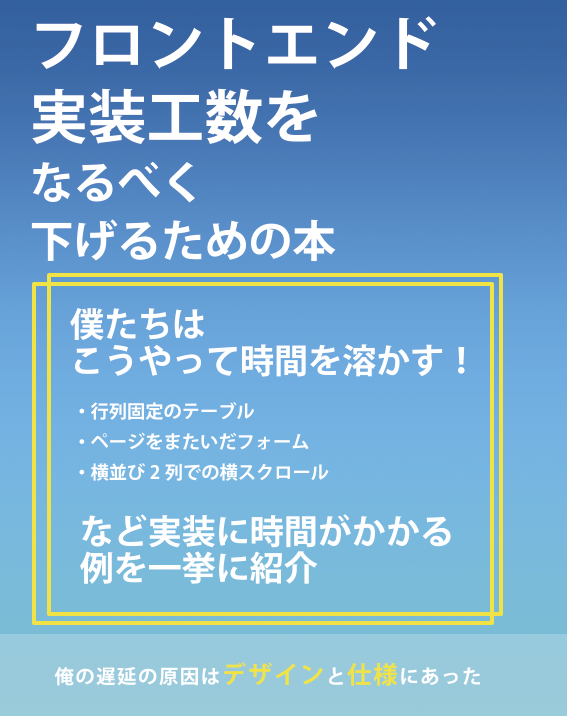
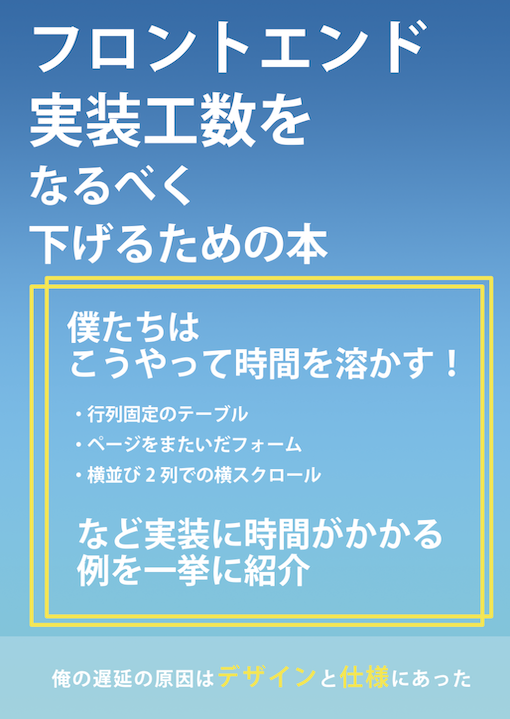
画像サイズ調整 + 修正ページ作成 + SP対応 (#3)
* rm: unused file

* fix: img

* update: revice

* update: sp mode

* update: all sp

* update: readme

Changed region(s): [[0.0294, 0.0, 0.9706, 0.8911], [0.1471, 0.5531, 0.6176, 0.676], [0.0882, 0.9218, 0.9118, 0.9832]]

diff --git a/src/pages/index.js b/src/pages/index.js
@@ -12,7 +12,7 @@ const IndexPage = props => {
     <Layout>
       <Section>
         <SEO title="Home" />
-        <Title>技術書典7で頒布しました！</Title>
+        <Title>技術書典7で頒布中</Title>
         <Books>
           <BookCover>
             <Image filename="kosubook" />
@@ -28,6 +28,10 @@ const IndexPage = props => {
                 こちら
               </NormalLink>
             </Text>
+            <Text>
+              修正は
+              <StyledLink to="./revice/kosubook">こちら</StyledLink>
+            </Text>
           </BookCover>
           <BookCover>
             <Image filename="modalbook" />
@@ -42,6 +46,10 @@ const IndexPage = props => {
               <NormalLink href="https://pinecan.booth.pm/items/1560348">
                 こちら
               </NormalLink>
+            </Text>
+            <Text>
+              修正は
+              <StyledLink to="./revice/modalbook">こちら</StyledLink>
             </Text>
           </BookCover>
         </Books>
@@ -72,18 +80,27 @@ const Title = styled.h1`
   color: #555555;
   text-align: center;
   font-size: 3.6rem;
-  margin-bottom: 1.2rem;
+  margin-bottom: 1.6rem;
+  @media (max-width: 768px) {
+    font-size: 2.4rem;
+  }
 `
 
 const Books = styled.div`
   width: 100%;
   display: flex;
   justify-content: space-between;
+  @media (max-width: 768px) {
+    flex-direction: column;
+  }
 `
 
 const BookCover = styled.div`
   width: 40%;
-  /* height: 425px; */
+  @media (max-width: 768px) {
+    width: 100%;
+    margin-bottom: 3.2rem;
+  }
 `
 
 const Text = styled.p`
@@ -92,6 +109,10 @@ const Text = styled.p`
 `
 
 const NormalLink = styled.a`
+  color: #2da4d5;
+`
+
+const StyledLink = styled(Link)`
   color: #2da4d5;
 `
 

diff --git a/src/pages/revice/kosubook.js b/src/pages/revice/kosubook.js
@@ -1,0 +1,42 @@
+import React from "react"
+import { Link } from "gatsby"
+import styled from "styled-components"
+import Layout from "../../components/layout"
+import SEO from "../../components/seo"
+
+export default () => {
+  return (
+    <Layout>
+      <Section>
+        <SEO title="revice" />
+        <Title>
+          フロントエンド実装工数をなるべく下げるタメの本 <br></br>修正箇所一覧
+        </Title>
+        <ul>
+          {/* <li>
+            p1
+            <ul style={{ marginLeft: "2.4rem" }}>
+              <li>誤</li>
+              <li>正</li>
+            </ul>
+          </li> */}
+          該当箇所はありません。
+        </ul>
+      </Section>
+    </Layout>
+  )
+}
+const Section = styled.div`
+  margin-bottom: 4.8rem;
+  font-size: 1.6rem;
+`
+
+const Title = styled.h1`
+  color: #555555;
+  text-align: center;
+  font-size: 3.6rem;
+  margin-bottom: 1.6rem;
+  @media (max-width: 768px) {
+    font-size: 2.4rem;
+  }
+`

diff --git a/src/pages/revice/modalbook.js b/src/pages/revice/modalbook.js
@@ -1,0 +1,42 @@
+import React from "react"
+import { Link } from "gatsby"
+import styled from "styled-components"
+import Layout from "../../components/layout"
+import SEO from "../../components/seo"
+
+export default () => {
+  return (
+    <Layout>
+      <Section>
+        <SEO title="revice" />
+        <Title>
+          モーダルから抜けるための本 <br></br>修正箇所一覧
+        </Title>
+        <ul>
+          {/* <li>
+            p1
+            <ul style={{ marginLeft: "2.4rem" }}>
+              <li>誤</li>
+              <li>正</li>
+            </ul>
+          </li> */}
+          該当箇所はありません。
+        </ul>
+      </Section>
+    </Layout>
+  )
+}
+const Section = styled.div`
+  margin-bottom: 4.8rem;
+  font-size: 1.6rem;
+`
+
+const Title = styled.h1`
+  color: #555555;
+  text-align: center;
+  font-size: 3.6rem;
+  margin-bottom: 1.6rem;
+  @media (max-width: 768px) {
+    font-size: 2.4rem;
+  }
+`

diff --git a/src/components/newsItem.js b/src/components/newsItem.js
@@ -21,7 +21,11 @@ const Wrapper = styled.div`
   padding: 0.8rem 1.2rem;
 `
 
-const Title = styled.h2``
+const Title = styled.h2`
+  @media (max-width: 768px) {
+    font-size: 2rem;
+  }
+`
 
 const StyledTitle = styled(Link)`
   text-decoration: none;

diff --git a/src/template/news.js b/src/template/news.js
@@ -30,6 +30,9 @@ const Title = styled.h1`
   text-align: center;
   font-size: 3.6rem;
   margin-bottom: 1.2rem;
+  @media (max-width: 768px) {
+    font-size: 2.4rem;
+  }
 `
 
 const DateText = styled.span`

diff --git a/README.md b/README.md
@@ -4,9 +4,19 @@
 
 [![Netlify Status](https://api.netlify.com/api/v1/badges/863c47c9-ce25-4adb-a9f8-793622253d79/deploy-status)](https://app.netlify.com/sites/pinecan/deploys)
 
+## お知らせ更新
+
+本の誤植修正などの告知はこのページから行う。
+
+手順は、
+
+1. src/pages/revice の中から該当する本のファイルを選択
+2. ページと正誤を記載
+3. news として追加。src/news の中に md を追加していくとお知らせ項目が追加されていく
+
 ## DL リンク
 
 - modalbook
   - https://pinecan.booth.pm/items/1560348
 - kosusakugen
-  - hoge
+  - https://pinecan.booth.pm/items/1562438
